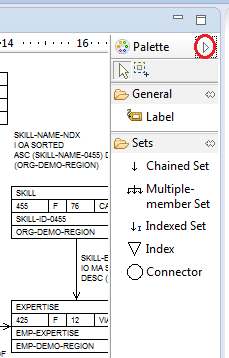
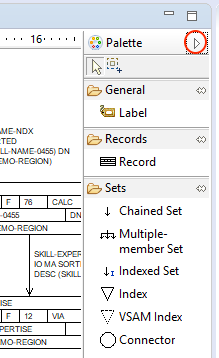
Contribute Help content

Changed region(s): [[0.0, 0.0, 1.0, 1.0]]

diff --git a/Eclipse CA IDMS Schema Diagram Editor/bundles/org.lh.dmlj.schema.editor.help/html/file_extensions.html b/Eclipse CA IDMS Schema Diagram Editor/bundles/org.lh.dmlj.schema.editor.help/html/file_extensions.html
@@ -32,7 +32,9 @@ issue directly in the file).
 <br><br>
 You will notice that .schemadsl files take more time to load in Eclipse, especially for large schemas.  It is my believe
 however that this file format offers more opportunities, e.g. nobody prevents you from generating the .schemadsl files
-yourself (using whatever source comes to your mind); doing that with the XML file format would be very hard.
+yourself (using whatever source comes to your mind); doing that with the XML file format would be very hard.  Moreover,
+<b>comparing 2 </b>.<b>schemadsl files</b> will likely produce a better result than comparing 2 .schema files, so working with 
+.schemadsl files in a version control system like GIT offers more opportunities.
 <br><br>
 The Diagram Editor registers itself in the Eclipse workbench as the default editor for .schema and .schemadsl files :
 <br><br>

diff --git a/Eclipse CA IDMS Schema Diagram Editor/bundles/org.lh.dmlj.schema.editor.help/html/diagrams/schema_editor.html b/Eclipse CA IDMS Schema Diagram Editor/bundles/org.lh.dmlj.schema.editor.help/html/diagrams/schema_editor.html
@@ -177,8 +177,6 @@ triangle (which has been flipped) again will make the palette disappear :
 <br><br>
 <img src="../../images/palette_collapsed.png" alt="[palette colapsed]" align="top">
 <img src="../../images/palette_visible.png" alt="[palette visible]" algin="top">
-<br><br><br>
-[TODO provide an updated screenshot for the palette]
 <br><br>
 The first 2 palette tools can be used to select 1 or more items in the diagram :
 <ul>
